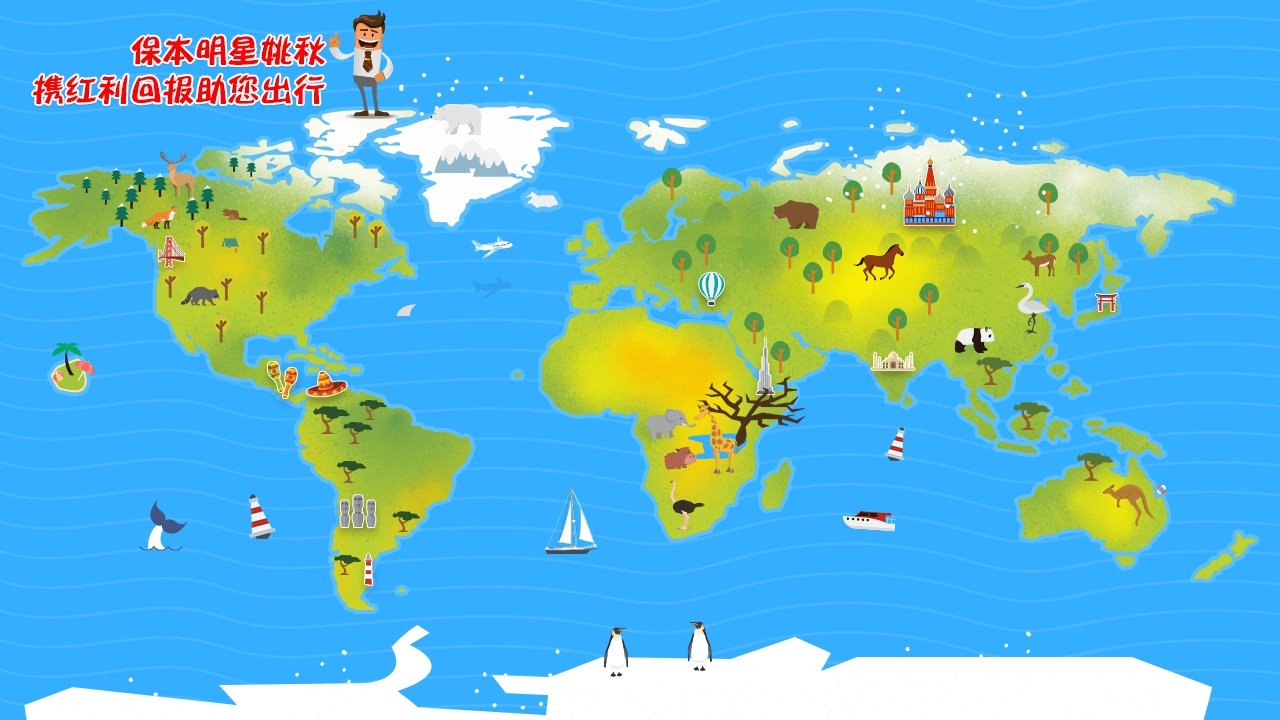
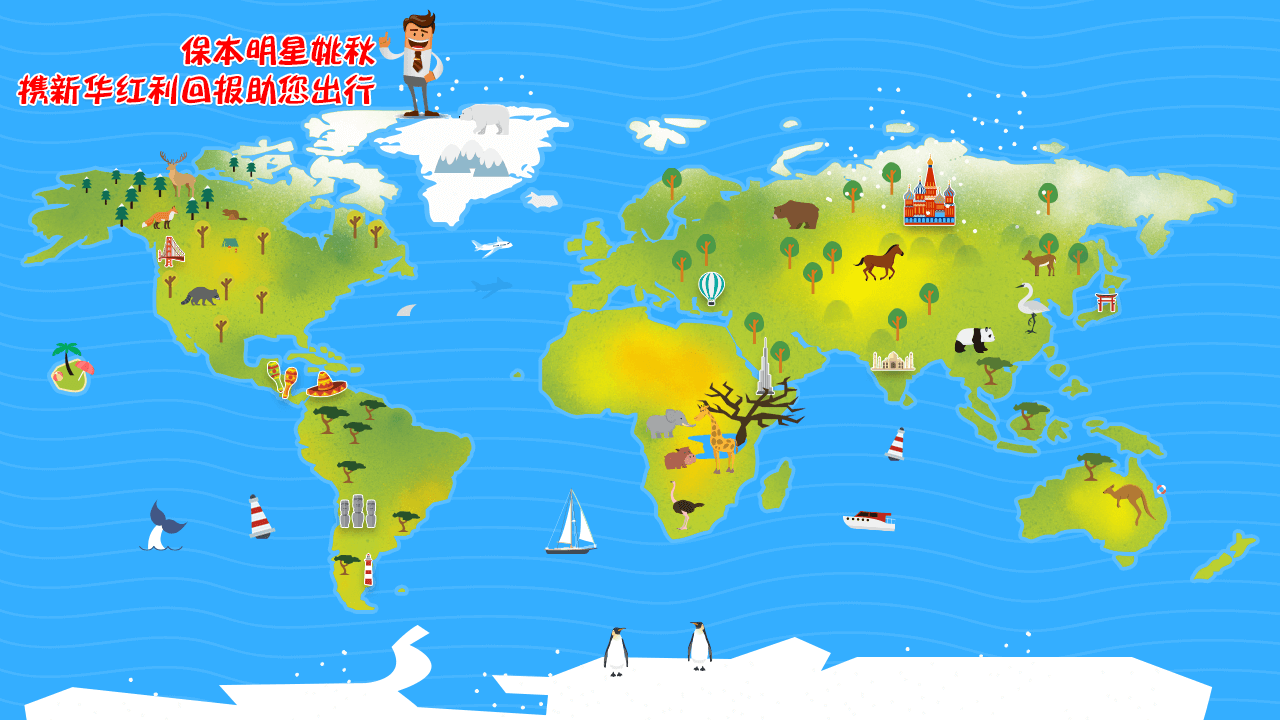
修改图片资源和文本等文字内容

Changed region(s): [[0.0, 0.0, 0.4062, 0.1833]]

diff --git a/src/components/WorldMap.vue b/src/components/WorldMap.vue
@@ -1,12 +1,36 @@
 <template>
   <div class="worldmap">
     <img src="../assets/mapbg.png" class="wmbg">
-    <img src="../assets/eiffel.png" @click="showdazhou(0)" class="eiffel ani-tip">
-    <img src="../assets/greatwall.png" @click="showdazhou(1)" class="greatewall ani-tip">
-    <img src="../assets/jesus.png" @click="showdazhou(2)" class="jesus ani-tip">
-    <img src="../assets/pyramid.png" @click="showdazhou(3)" class="pyramid ani-tip">
-    <img src="../assets/statue.png" @click="showdazhou(4)" class="statue ani-tip">
-    <img src="../assets/sydney.png" @click="showdazhou(5)" class="sydney ani-tip">
+
+    <div class="eiffel ani-tip">
+      <div>点我</div>
+      <img src="../assets/eiffel.png" @click="showdazhou(0)">
+    </div>
+    <div class="greatewall ani-tip">
+      <div>点我</div>
+      <img src="../assets/greatwall.png" @click="showdazhou(1)">
+    </div>
+    <div class="jesus ani-tip">
+      <div>点我</div>
+      <img src="../assets/jesus.png" @click="showdazhou(2)">
+    </div>
+    <div class="pyramid ani-tip">
+      <div>点我</div>
+      <img src="../assets/pyramid.png" @click="showdazhou(3)">
+    </div>
+    <div class="statue ani-tip">
+      <div>点我</div>
+      <img src="../assets/statue.png" @click="showdazhou(4)">
+    </div>
+    <div class="sydney ani-tip">
+      <div>点我</div>
+      <img src="../assets/sydney.png" @click="showdazhou(5)">
+    </div>
+    
+    
+    
+    
+    
     <div class="prompt">左右滑动查看</div>
     <dazhou v-show="dazhoushow" @click="closedazhou" class="dazhou" :rollstat="rollstat" :msgg="msgg" :dazhouid="dazhouid"></dazhou>
   </div>
@@ -111,6 +135,13 @@ export default {
   width: 0.94rem;
   top: 2.9rem;
   left:10.5rem;
+}
+.ani-tip img{
+  width: 100%;
+}
+.ani-tip div{
+  text-align: right;
+  color: red;
 }
 .greatewall{
   width:1.1rem;

diff --git a/src/components/Dazhou.vue b/src/components/Dazhou.vue
@@ -5,7 +5,7 @@
       <div :class=getrollstat>
         <img :src=imgsrc :class=textimg>
         <img :src=boximgsrc class="box-img">
-        <img src="../assets/shake.png" class="shake">
+        <img src="../assets/shake.png" class="shake ani-shake">
       </div>
     </div>
   </div>
@@ -137,5 +137,30 @@ export default {
     -webkit-transform:rotate(-15deg);}
   100% {transform: rotate(15deg);
     -webkit-transform:rotate(15deg);}
+}
+.ani-shake{
+  animation:shake 1s infinite;
+}
+@keyframes shake {
+  0% {
+    
+    transform: translateX(3%);
+  }
+  5% {
+    transform: translateX(-3%);
+  }
+  10% {
+    transform: translateX(3%);
+  }
+  15% {
+    transform: translateX(-3%);
+  }
+  20% {
+    transform: translateX(3%);
+  }
+  100% {
+    
+    transform: translateX(3%);
+  }
 }
 </style>

diff --git a/src/js/init.js b/src/js/init.js
@@ -14,8 +14,8 @@ var init = function () {
         signatureurl:config.hosturl+'/getsignature',
         appId:'wx3d5547d122fc289c',
         jsApiList:['onMenuShareTimeline','onMenuShareAppMessage'],
-        title:'激情假日新华助你出行',
-        desc:'保本明星姚秋携红利回报助您出行',
+        title:'激情假日新华助您出行',
+        desc:'保本明星姚秋携新华红利回报助您出行',
         link:'http://www.linki2u.com/wxjstxt/xinhuawuyi/dist/dao.html',
         imgurl:'http://www.linki2u.com/wxjstxt/xinhuawuyi/dist/share.png',
         callback:cb

diff --git a/src/components/Rollsucc.vue b/src/components/Rollsucc.vue
@@ -19,7 +19,7 @@ export default {
     msg () {
       var type = sessionStorage.getItem('type')
       var types = ['200','100','50','20']
-      return '红利基金经理姚秋为您派发'+types[parseInt(type)-1]+'元旅行基金'
+      return '新华红利回报经理姚秋为您派发'+types[parseInt(type)-1]+'元旅行基金'
     }
   },
   mounted () {

diff --git a/index.html b/index.html
@@ -10,7 +10,7 @@
   .moc{
     width:0.67rem;
     height:0.67rem;
-    position: absolute;
+    position: fixed;
     top:10px;
     right: 10px;
     z-index: 10;

diff --git a/src/components/Page1.vue b/src/components/Page1.vue
@@ -29,7 +29,7 @@ export default {
   background: #34AEFF;
 }
 .page1-img{
-  height: 100%;
+  width: 100%;
   display: block;
   margin: auto;
 }
